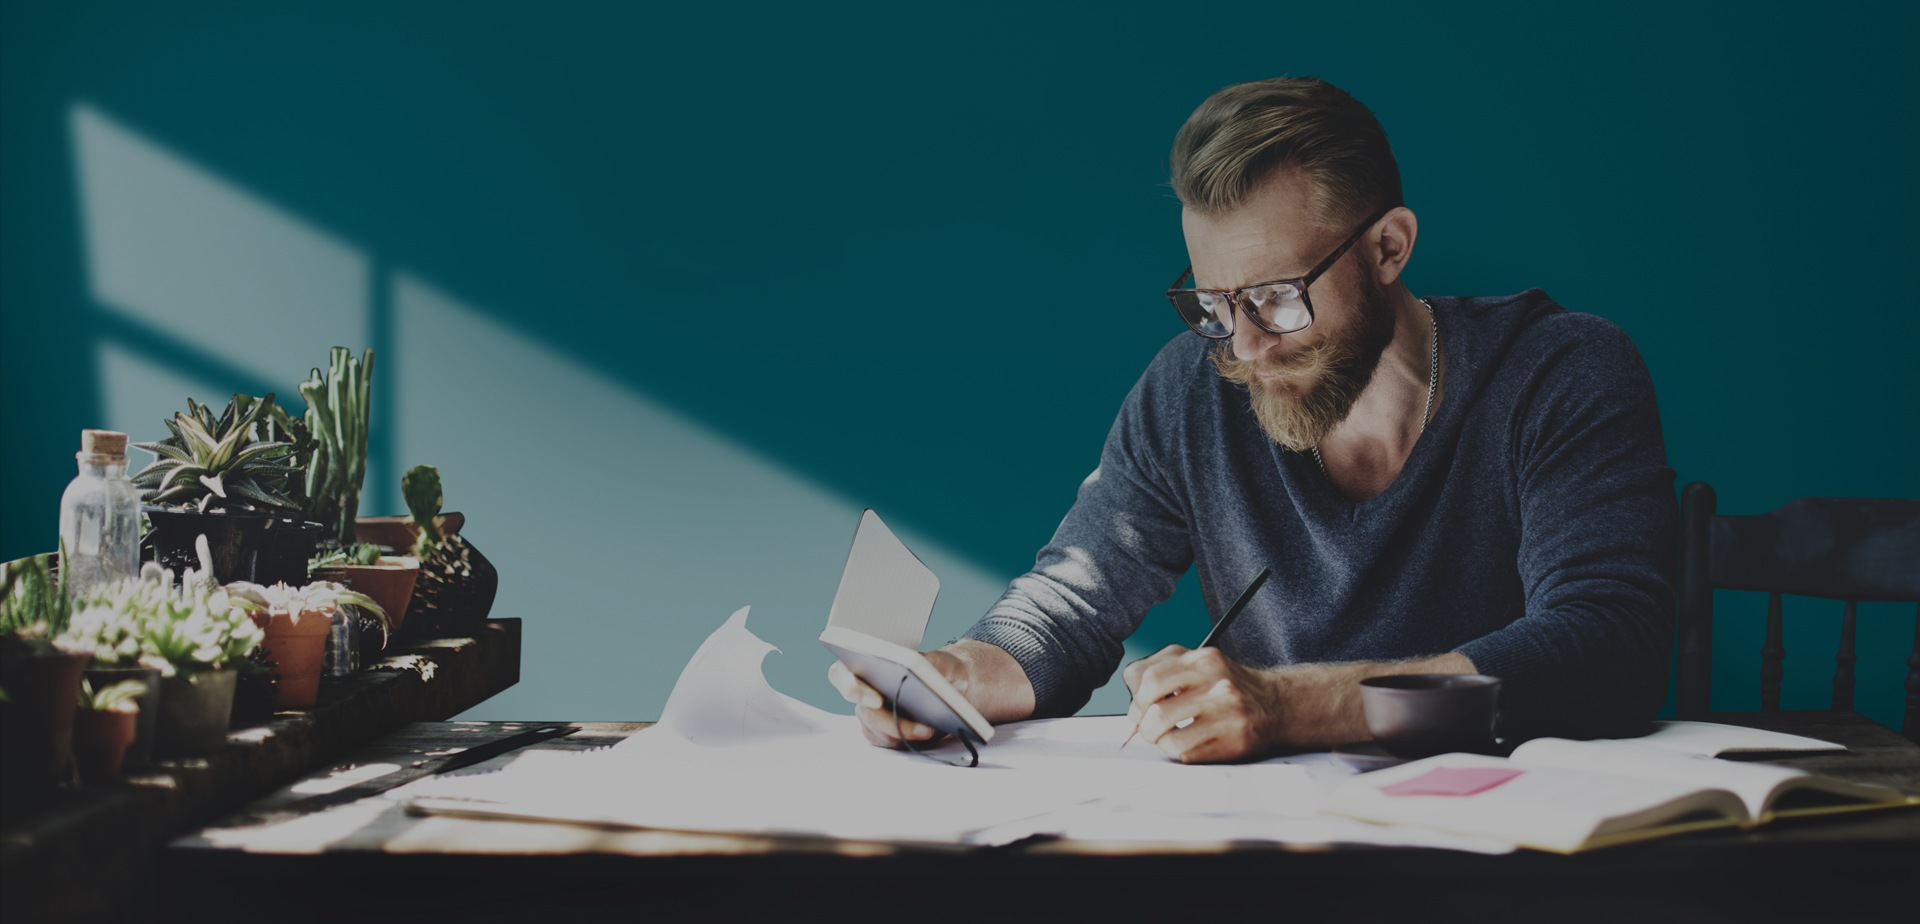
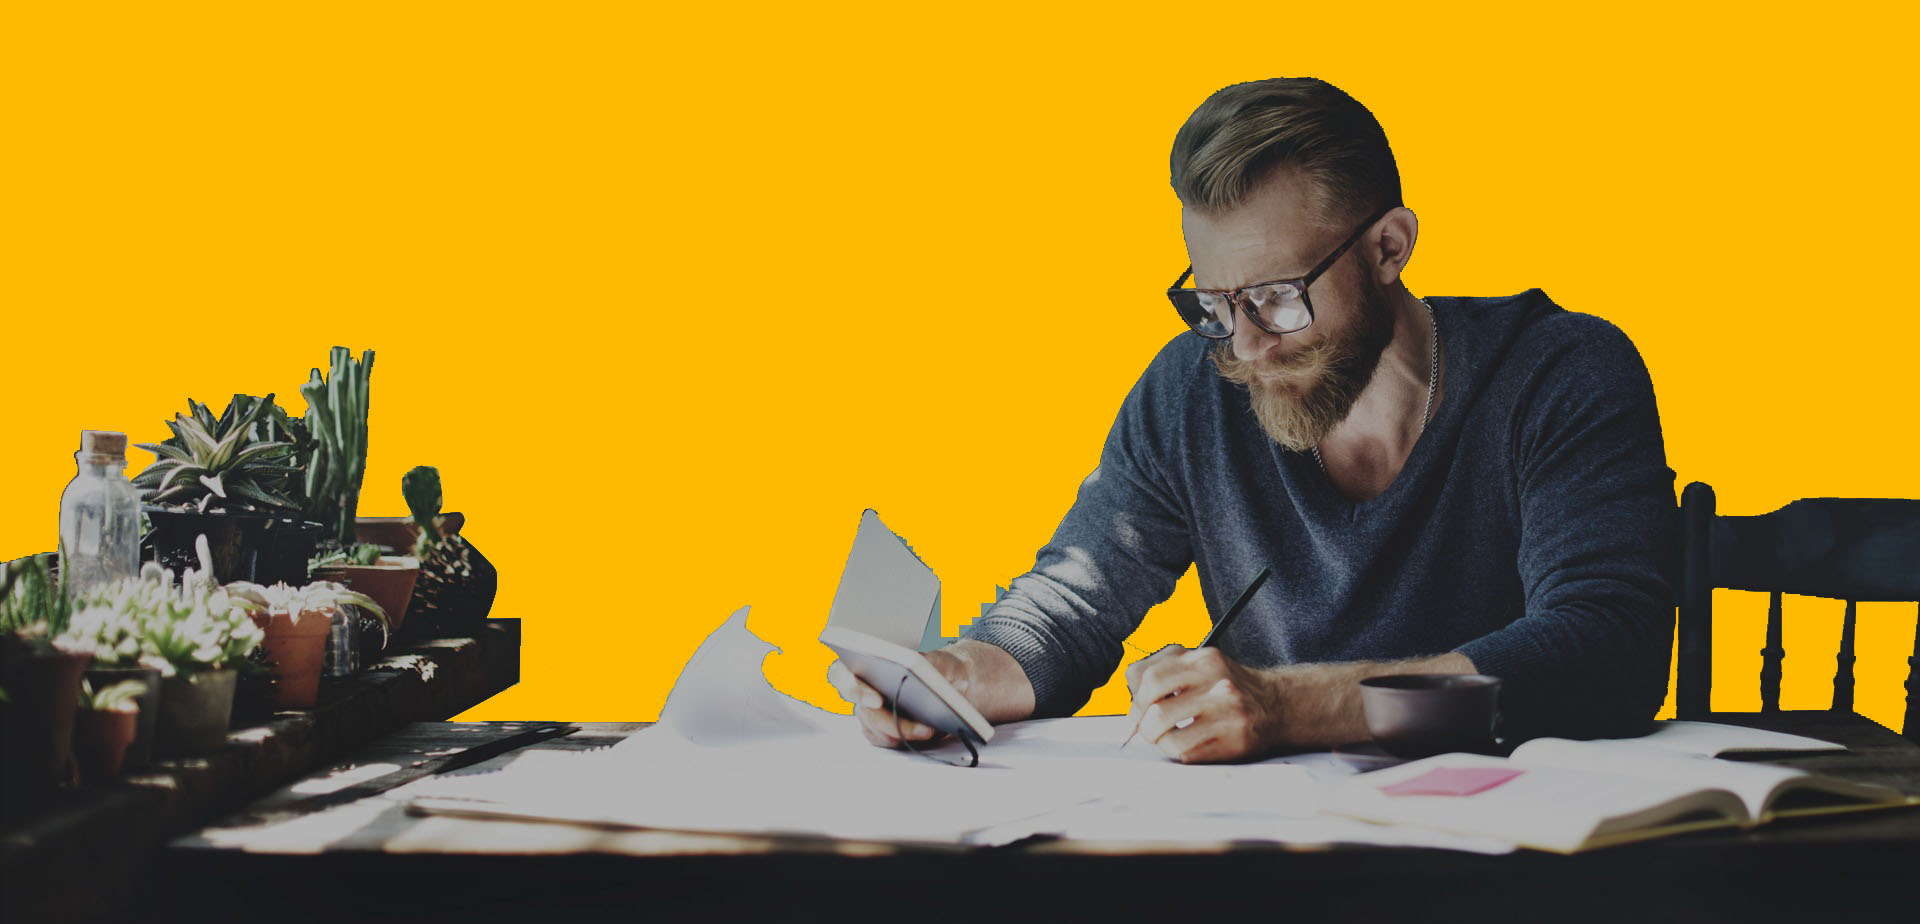
added parallax section

diff --git a/app/index.html b/app/index.html
@@ -225,6 +225,20 @@
                 </div>
             </section>
 
+            <section class="parallax">
+                <div class="parallax__image" style="background-image:url(./images/content/parallax_01.jpg)">
+                    <div class="parallax__content">
+                        <div class="parallax__title">
+                            Что мы предлагаем?
+                        </div>
+                        <div class="parallax__text">
+                            Начните с этого демо, чтобы выбрать то, что вам нужно.
+                        </div>
+                        <a class="parallax__btn" href="#">Смотреть</a>
+                    </div>
+                </div>
+            </section>
+
             <section class="team">
                 <div class="container">
                     <div class="team__inner">

diff --git a/app/scss/style.scss b/app/scss/style.scss
@@ -399,6 +399,48 @@
 }
 // end control
 
+// start parallax
+.parallax {
+  &__image {
+    height: 600px;
+    width: 100%;
+    min-height: 100%;
+    background-size: cover;
+    background-position: center;
+    background-attachment: fixed;
+    background-repeat: no-repeat;
+  }
+  &__content {
+    text-align: center;
+    padding-top: 150px;
+  }
+  &__title {
+    font-size: 65px;
+    color: #fff;
+    padding-bottom: 28px;
+  }
+  &__text {
+    font-size: 17px;
+    color: #fff;
+    margin-bottom: 35px;
+  }
+  &__btn {
+    background-color: $orange;
+    color: #fff;
+    @include f500;
+    font-size: 12px;
+    padding: 20px 40px;
+    border-radius: 3px;
+    text-transform: uppercase;
+    letter-spacing: 0.3em;
+    transition: all 0.3s ease;
+    &:hover {
+      background-color: #000;
+    }
+  }
+}
+// end parallax
+
 // start team
 .team {
   &__inner {
